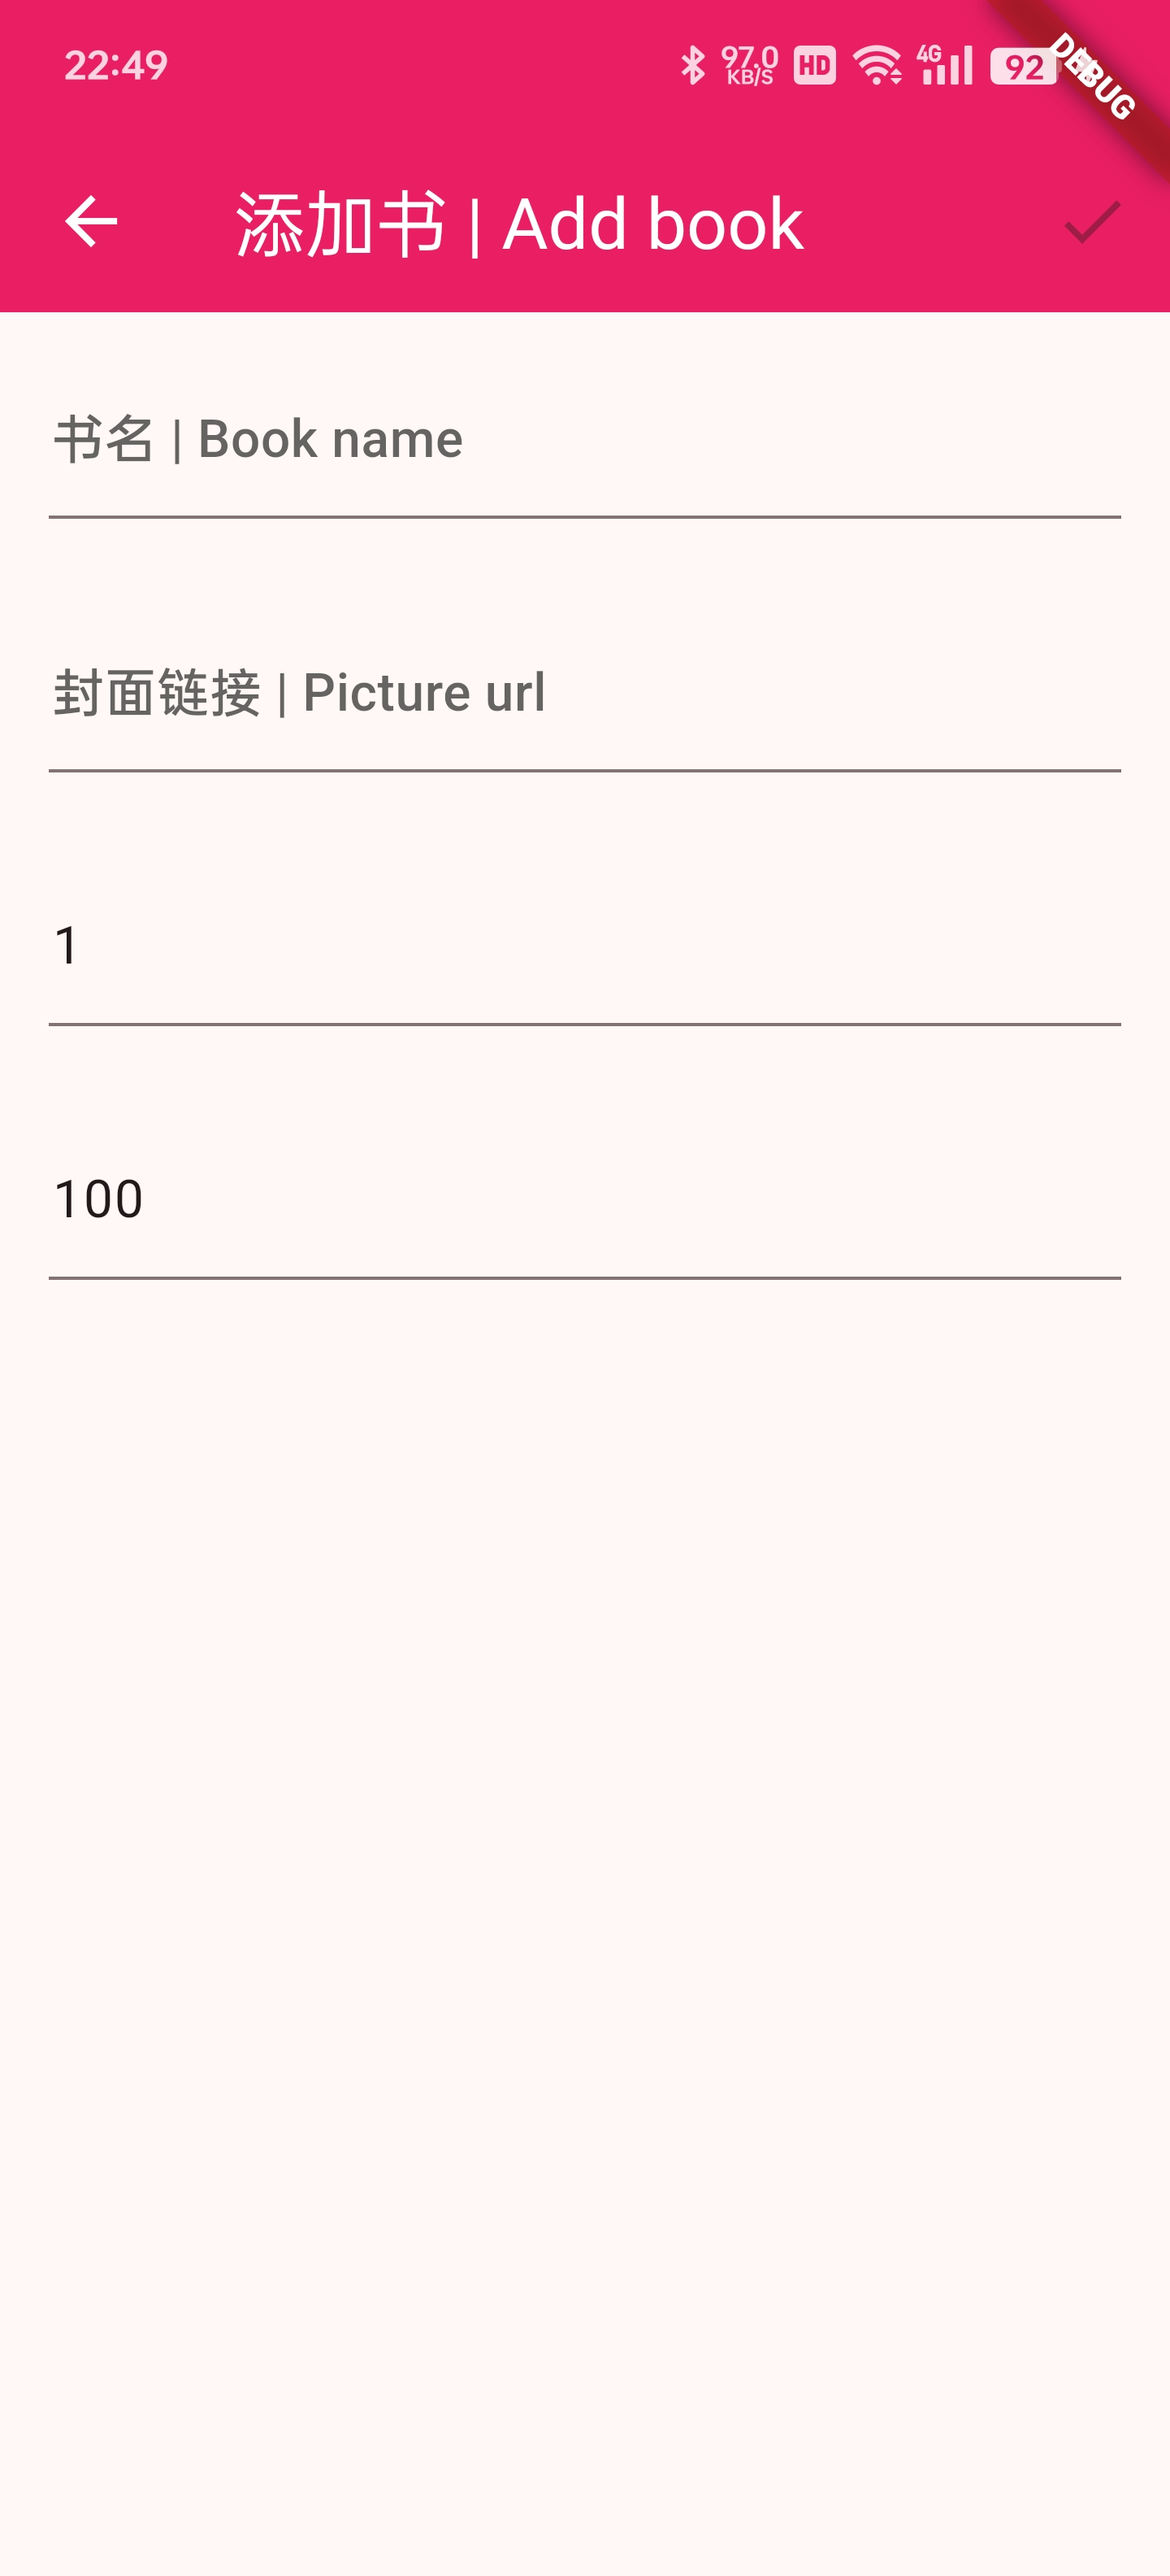
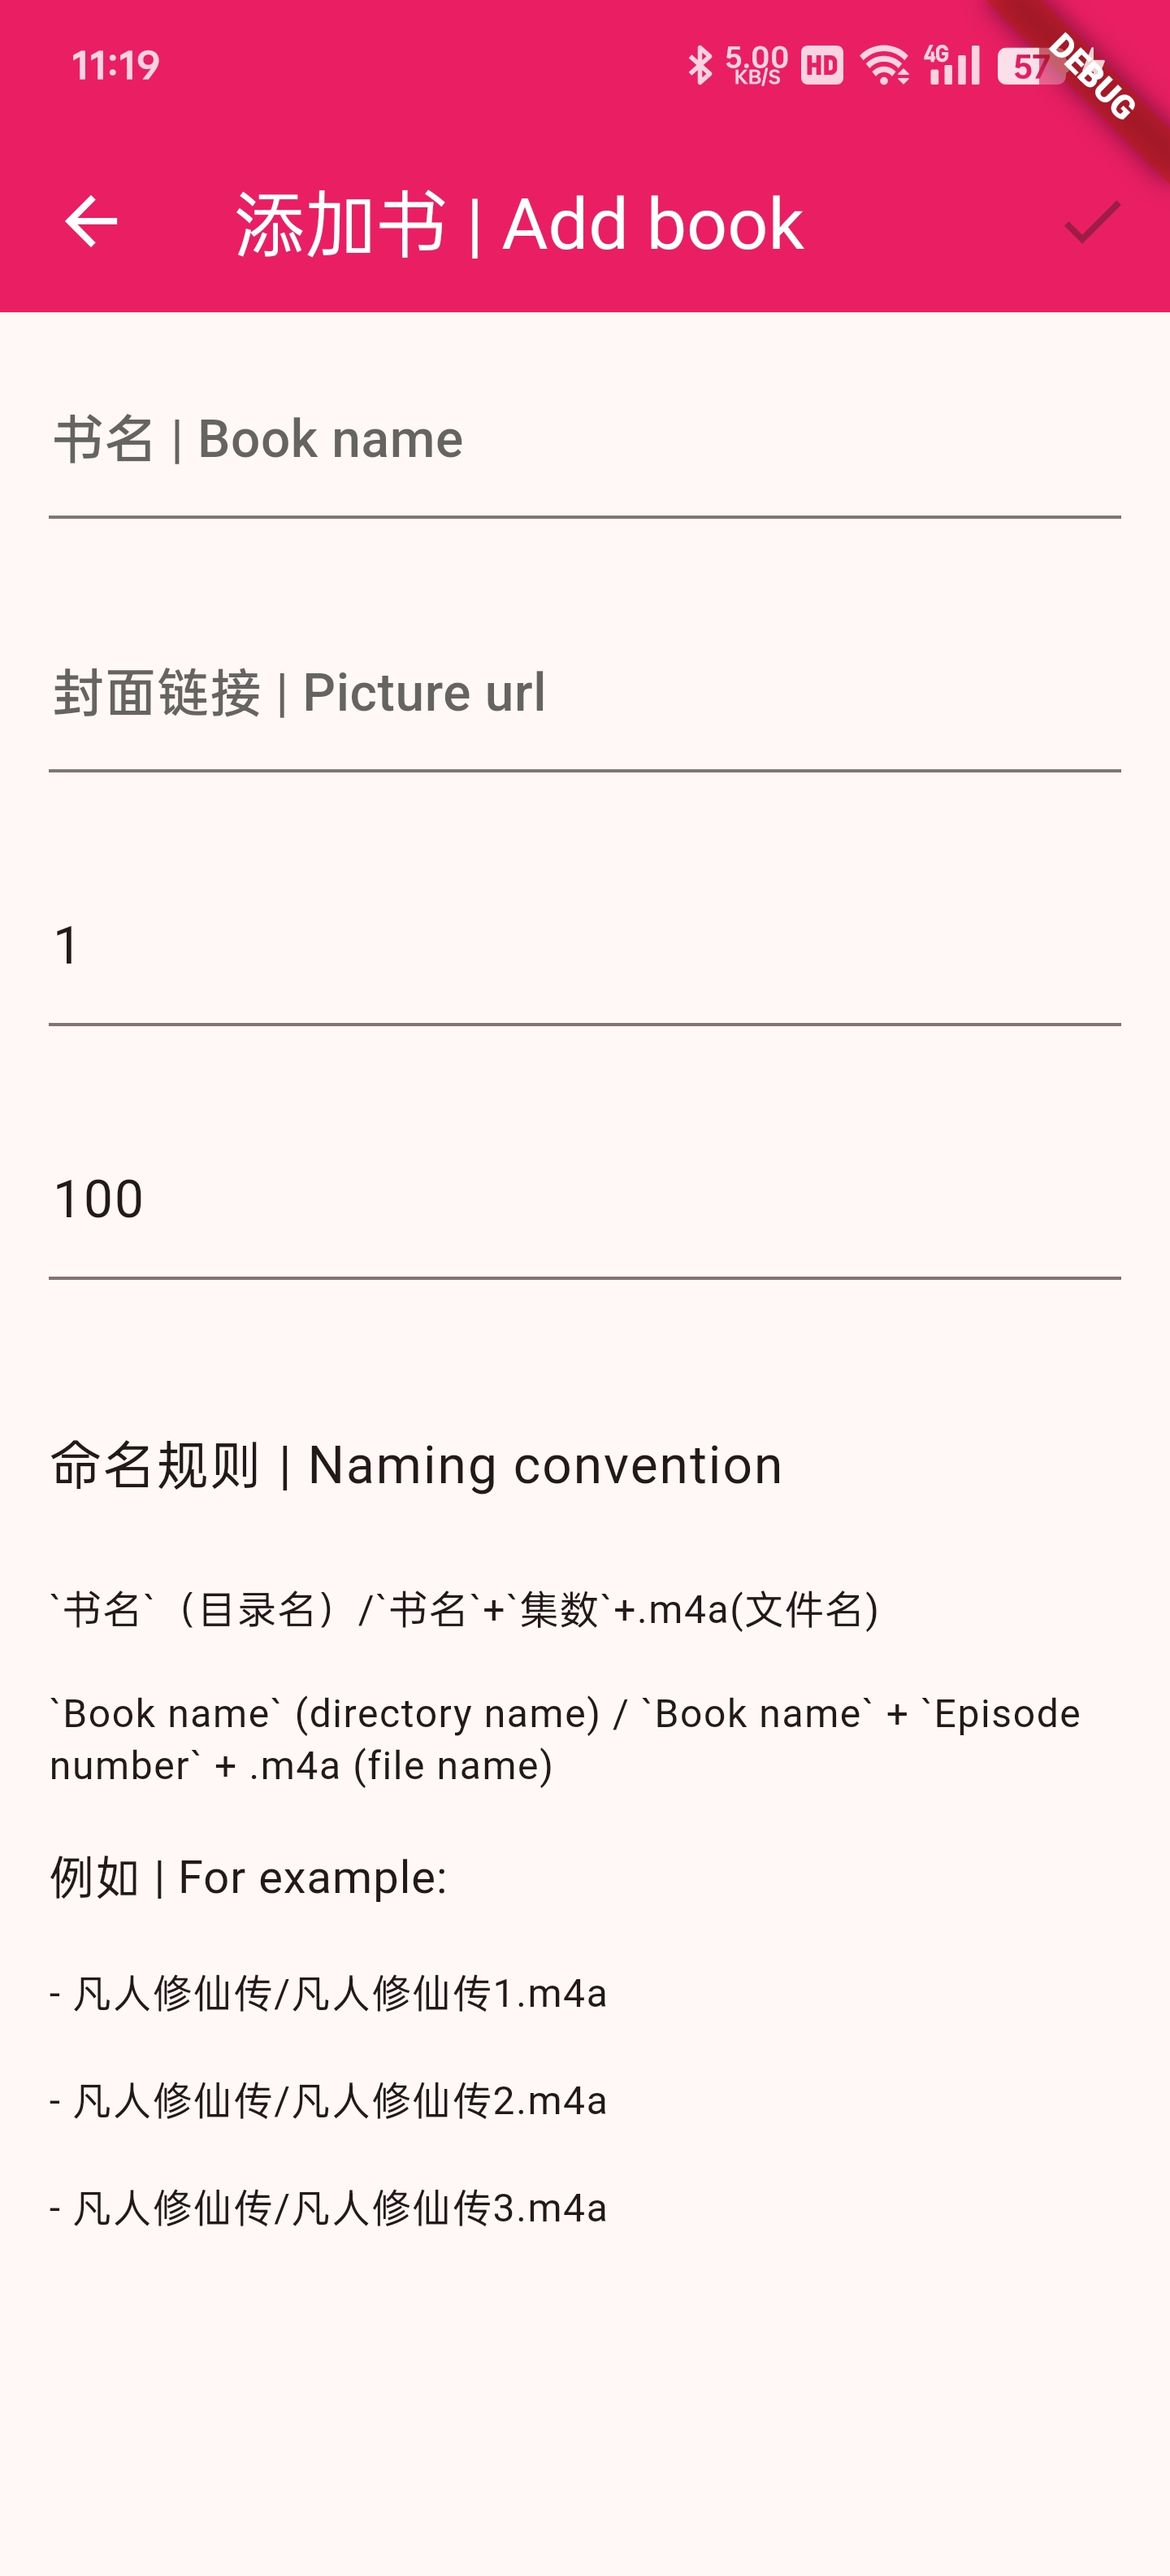
Add naming convention

diff --git a/lib/pages/audio/AddBook.dart b/lib/pages/audio/AddBook.dart
@@ -9,10 +9,11 @@ class AddBook extends StatefulWidget {
 }
 
 class _AddBookState extends State<AddBook> {
-  String _bookName = "";
-  String _artUrl = "";
-  int _start = 1;
-  int _end = 100;
+  final _formKey = GlobalKey<FormState>();
+  bool _enableBtn = false;
+  TextEditingController _bookNameController =
+      new TextEditingController(text: "");
+  TextEditingController _artUrlController = new TextEditingController(text: "");
   TextEditingController _startController = new TextEditingController(text: "1");
   TextEditingController _endController = new TextEditingController(text: "100");
   FocusNode _focusNodeBookName = FocusNode();
@@ -32,12 +33,17 @@ class _AddBookState extends State<AddBook> {
     _focusNodeArtUrl.dispose();
     _focusNodeStart.dispose();
     _focusNodeEnd.dispose();
+    _bookNameController.dispose();
+    _artUrlController.dispose();
     _startController.dispose();
     _endController.dispose();
   }
 
   Future _post() async {
-    BookModel book = BookModel(_bookName, _artUrl, _start, _end);
+    int? start = int.tryParse(_startController.text);
+    int? end = int.tryParse(_endController.text);
+    BookModel book = BookModel(
+        _bookNameController.text, _artUrlController.text, start!, end!);
     List<BookModel> books = await LocalStorage.getBooksVal();
     int index = books.indexWhere((e) => e.name == book.name);
     if (index != -1) {
@@ -56,24 +62,29 @@ class _AddBookState extends State<AddBook> {
           title: Text("添加书 | Add book"),
           actions: [
             IconButton(
-                onPressed: _bookName.isNotEmpty ? _post : null,
-                icon: Icon(Icons.check))
+                onPressed: _enableBtn ? _post : null, icon: Icon(Icons.check))
           ],
         ),
         body: Form(
-          child: Column(
+          key: _formKey,
+          autovalidateMode: AutovalidateMode.onUserInteraction,
+          onChanged: () =>
+              setState(() => _enableBtn = _formKey.currentState!.validate()),
+          child: ListView(
             children: [
               Padding(
                 padding: const EdgeInsets.all(15.0),
-                child: TextField(
-                  onChanged: (e) {
-                    setState(() {
-                      _bookName = e.trim();
-                    });
+                child: TextFormField(
+                  validator: (v) {
+                    if (v != null && v.trim().isEmpty) {
+                      return "不能为空 | Required";
+                    }
+                    return null;
                   },
                   focusNode: _focusNodeBookName,
+                  controller: _bookNameController,
                   textInputAction: TextInputAction.next,
-                  onSubmitted: (e) => _focusNodeArtUrl.requestFocus(),
+                  onFieldSubmitted: (e) => _focusNodeArtUrl.requestFocus(),
                   decoration: InputDecoration(
                     contentPadding: EdgeInsets.all(1),
                     hintText: "书名 | Book name",
@@ -82,15 +93,20 @@ class _AddBookState extends State<AddBook> {
               ),
               Padding(
                 padding: const EdgeInsets.all(15.0),
-                child: TextField(
-                  onChanged: (e) {
-                    setState(() {
-                      _artUrl = e.trim();
-                    });
+                child: TextFormField(
+                  validator: (v) {
+                    if (v != null && v.trim().isEmpty) {
+                      return "不能为空 | Required";
+                    }
+                    if (v != null && !v.trim().startsWith("http")) {
+                      return "需http开头 | Must start with http";
+                    }
+                    return null;
                   },
                   focusNode: _focusNodeArtUrl,
+                  controller: _artUrlController,
                   textInputAction: TextInputAction.next,
-                  onSubmitted: (e) => _focusNodeStart.requestFocus(),
+                  onFieldSubmitted: (e) => _focusNodeStart.requestFocus(),
                   decoration: InputDecoration(
                     contentPadding: EdgeInsets.all(1),
                     hintText: "封面链接 | Picture url",
@@ -99,20 +115,20 @@ class _AddBookState extends State<AddBook> {
               ),
               Padding(
                 padding: const EdgeInsets.all(15.0),
-                child: TextField(
-                  onChanged: (e) {
-                    var val = e.trim();
-                    if (val.isNotEmpty) {
-                      setState(() {
-                        _start = int.parse(val);
-                      });
+                child: TextFormField(
+                  validator: (v) {
+                    String val = v!.trim();
+                    if (val.isEmpty) return "不能为空 | Required";
+                    if (int.tryParse(val) == null || int.parse(val) < 0) {
+                      return "不是正整数 | Must positive integer";
                     }
+                    return null;
                   },
                   keyboardType: TextInputType.number,
                   focusNode: _focusNodeStart,
                   controller: _startController,
                   textInputAction: TextInputAction.next,
-                  onSubmitted: (e) => _focusNodeEnd.requestFocus(),
+                  onFieldSubmitted: (e) => _focusNodeEnd.requestFocus(),
                   decoration: InputDecoration(
                     contentPadding: EdgeInsets.all(1),
                     hintText: "开始集数 | Start Episode",
@@ -121,19 +137,19 @@ class _AddBookState extends State<AddBook> {
               ),
               Padding(
                 padding: const EdgeInsets.all(15.0),
-                child: TextField(
-                  onChanged: (e) {
-                    var val = e.trim();
-                    if (val.isNotEmpty) {
-                      setState(() {
-                        _end = int.parse(val);
-                      });
+                child: TextFormField(
+                  validator: (v) {
+                    String val = v!.trim();
+                    if (val.isEmpty) return "不能为空 | Required";
+                    if (int.tryParse(val) == null || int.parse(val) < 0) {
+                      return "不是正整数 | Must positive integer";
                     }
+                    return null;
                   },
                   keyboardType: TextInputType.number,
                   focusNode: _focusNodeEnd,
                   controller: _endController,
-                  onSubmitted: (e) => _post(),
+                  onFieldSubmitted: (e) => _enableBtn ? _post() : null,
                   textInputAction: TextInputAction.send,
                   decoration: InputDecoration(
                     contentPadding: EdgeInsets.all(1),
@@ -141,8 +157,69 @@ class _AddBookState extends State<AddBook> {
                   ),
                 ),
               ),
+              TextWidget(),
             ],
           ),
         ));
+  }
+
+  Widget TextWidget() {
+    return Padding(
+      padding: const EdgeInsets.all(15.0),
+      child: Column(
+        crossAxisAlignment: CrossAxisAlignment.start,
+        children: [
+          Padding(
+            padding: const EdgeInsets.symmetric(vertical: 15),
+            child: Text(
+              "命名规则 | Naming convention",
+              style: Theme.of(context).textTheme.bodyLarge,
+            ),
+          ),
+          Padding(
+            padding: const EdgeInsets.symmetric(vertical: 8),
+            child: Text(
+              "`书名`（目录名）/`书名`+`集数`+.m4a(文件名)",
+              style: Theme.of(context).textTheme.bodySmall,
+            ),
+          ),
+          Padding(
+            padding: const EdgeInsets.symmetric(vertical: 8),
+            child: Text(
+              "`Book name` (directory name) / `Book name` + `Episode number` + .m4a (file name)",
+              style: Theme.of(context).textTheme.bodySmall,
+            ),
+          ),
+          Padding(
+            padding: const EdgeInsets.symmetric(vertical: 8),
+            child: Text(
+              "例如 | For example:",
+              style: Theme.of(context).textTheme.bodyMedium,
+            ),
+          ),
+          Padding(
+            padding: const EdgeInsets.symmetric(vertical: 8),
+            child: Text(
+              "- 凡人修仙传/凡人修仙传1.m4a",
+              style: Theme.of(context).textTheme.bodySmall,
+            ),
+          ),
+          Padding(
+            padding: const EdgeInsets.symmetric(vertical: 8),
+            child: Text(
+              "- 凡人修仙传/凡人修仙传2.m4a",
+              style: Theme.of(context).textTheme.bodySmall,
+            ),
+          ),
+          Padding(
+            padding: const EdgeInsets.symmetric(vertical: 8),
+            child: Text(
+              "- 凡人修仙传/凡人修仙传3.m4a",
+              style: Theme.of(context).textTheme.bodySmall,
+            ),
+          ),
+        ],
+      ),
+    );
   }
 }

diff --git a/lib/pages/audio/SettingBook.dart b/lib/pages/audio/SettingBook.dart
@@ -188,7 +188,7 @@ class _SettingBookState extends State<SettingBook> {
                     String val = v!.trim();
                     if (val.isEmpty) return "不能为空 | Required";
                     if (int.tryParse(val) == null || int.parse(val) < 0) {
-                      return "不是数字 | Must number";
+                      return "不是正整数 | Must positive integer";
                     }
                     return null;
                   },
@@ -217,7 +217,7 @@ class _SettingBookState extends State<SettingBook> {
                     String val = v!.trim();
                     if (val.isEmpty) return "不能为空 | Required";
                     if (int.tryParse(val) == null || int.parse(val) < 0) {
-                      return "不是数字 | Must number";
+                      return "不是正整数 | Must positive integer";
                     }
                     return null;
                   },

diff --git a/lib/pages/audio/Audio.dart b/lib/pages/audio/Audio.dart
@@ -106,8 +106,7 @@ class _AudioState extends State<Audio> {
                               width: 400,
                               height: 400,
                               imageUrl: '${metadata.artUri!}',
-                              errorWidget: (context, url, error) =>
-                                  EmptyImage(
+                              errorWidget: (context, url, error) => EmptyImage(
                                 size: 250,
                               ),
                             ),
@@ -140,7 +139,7 @@ class _AudioState extends State<Audio> {
             ),
             const SizedBox(height: 8.0),
             SizedBox(
-              height: 240.0,
+              height: 340.0,
               child: StreamBuilder<SequenceState?>(
                 stream: player.sequenceStateStream,
                 builder: (context, snapshot) {
